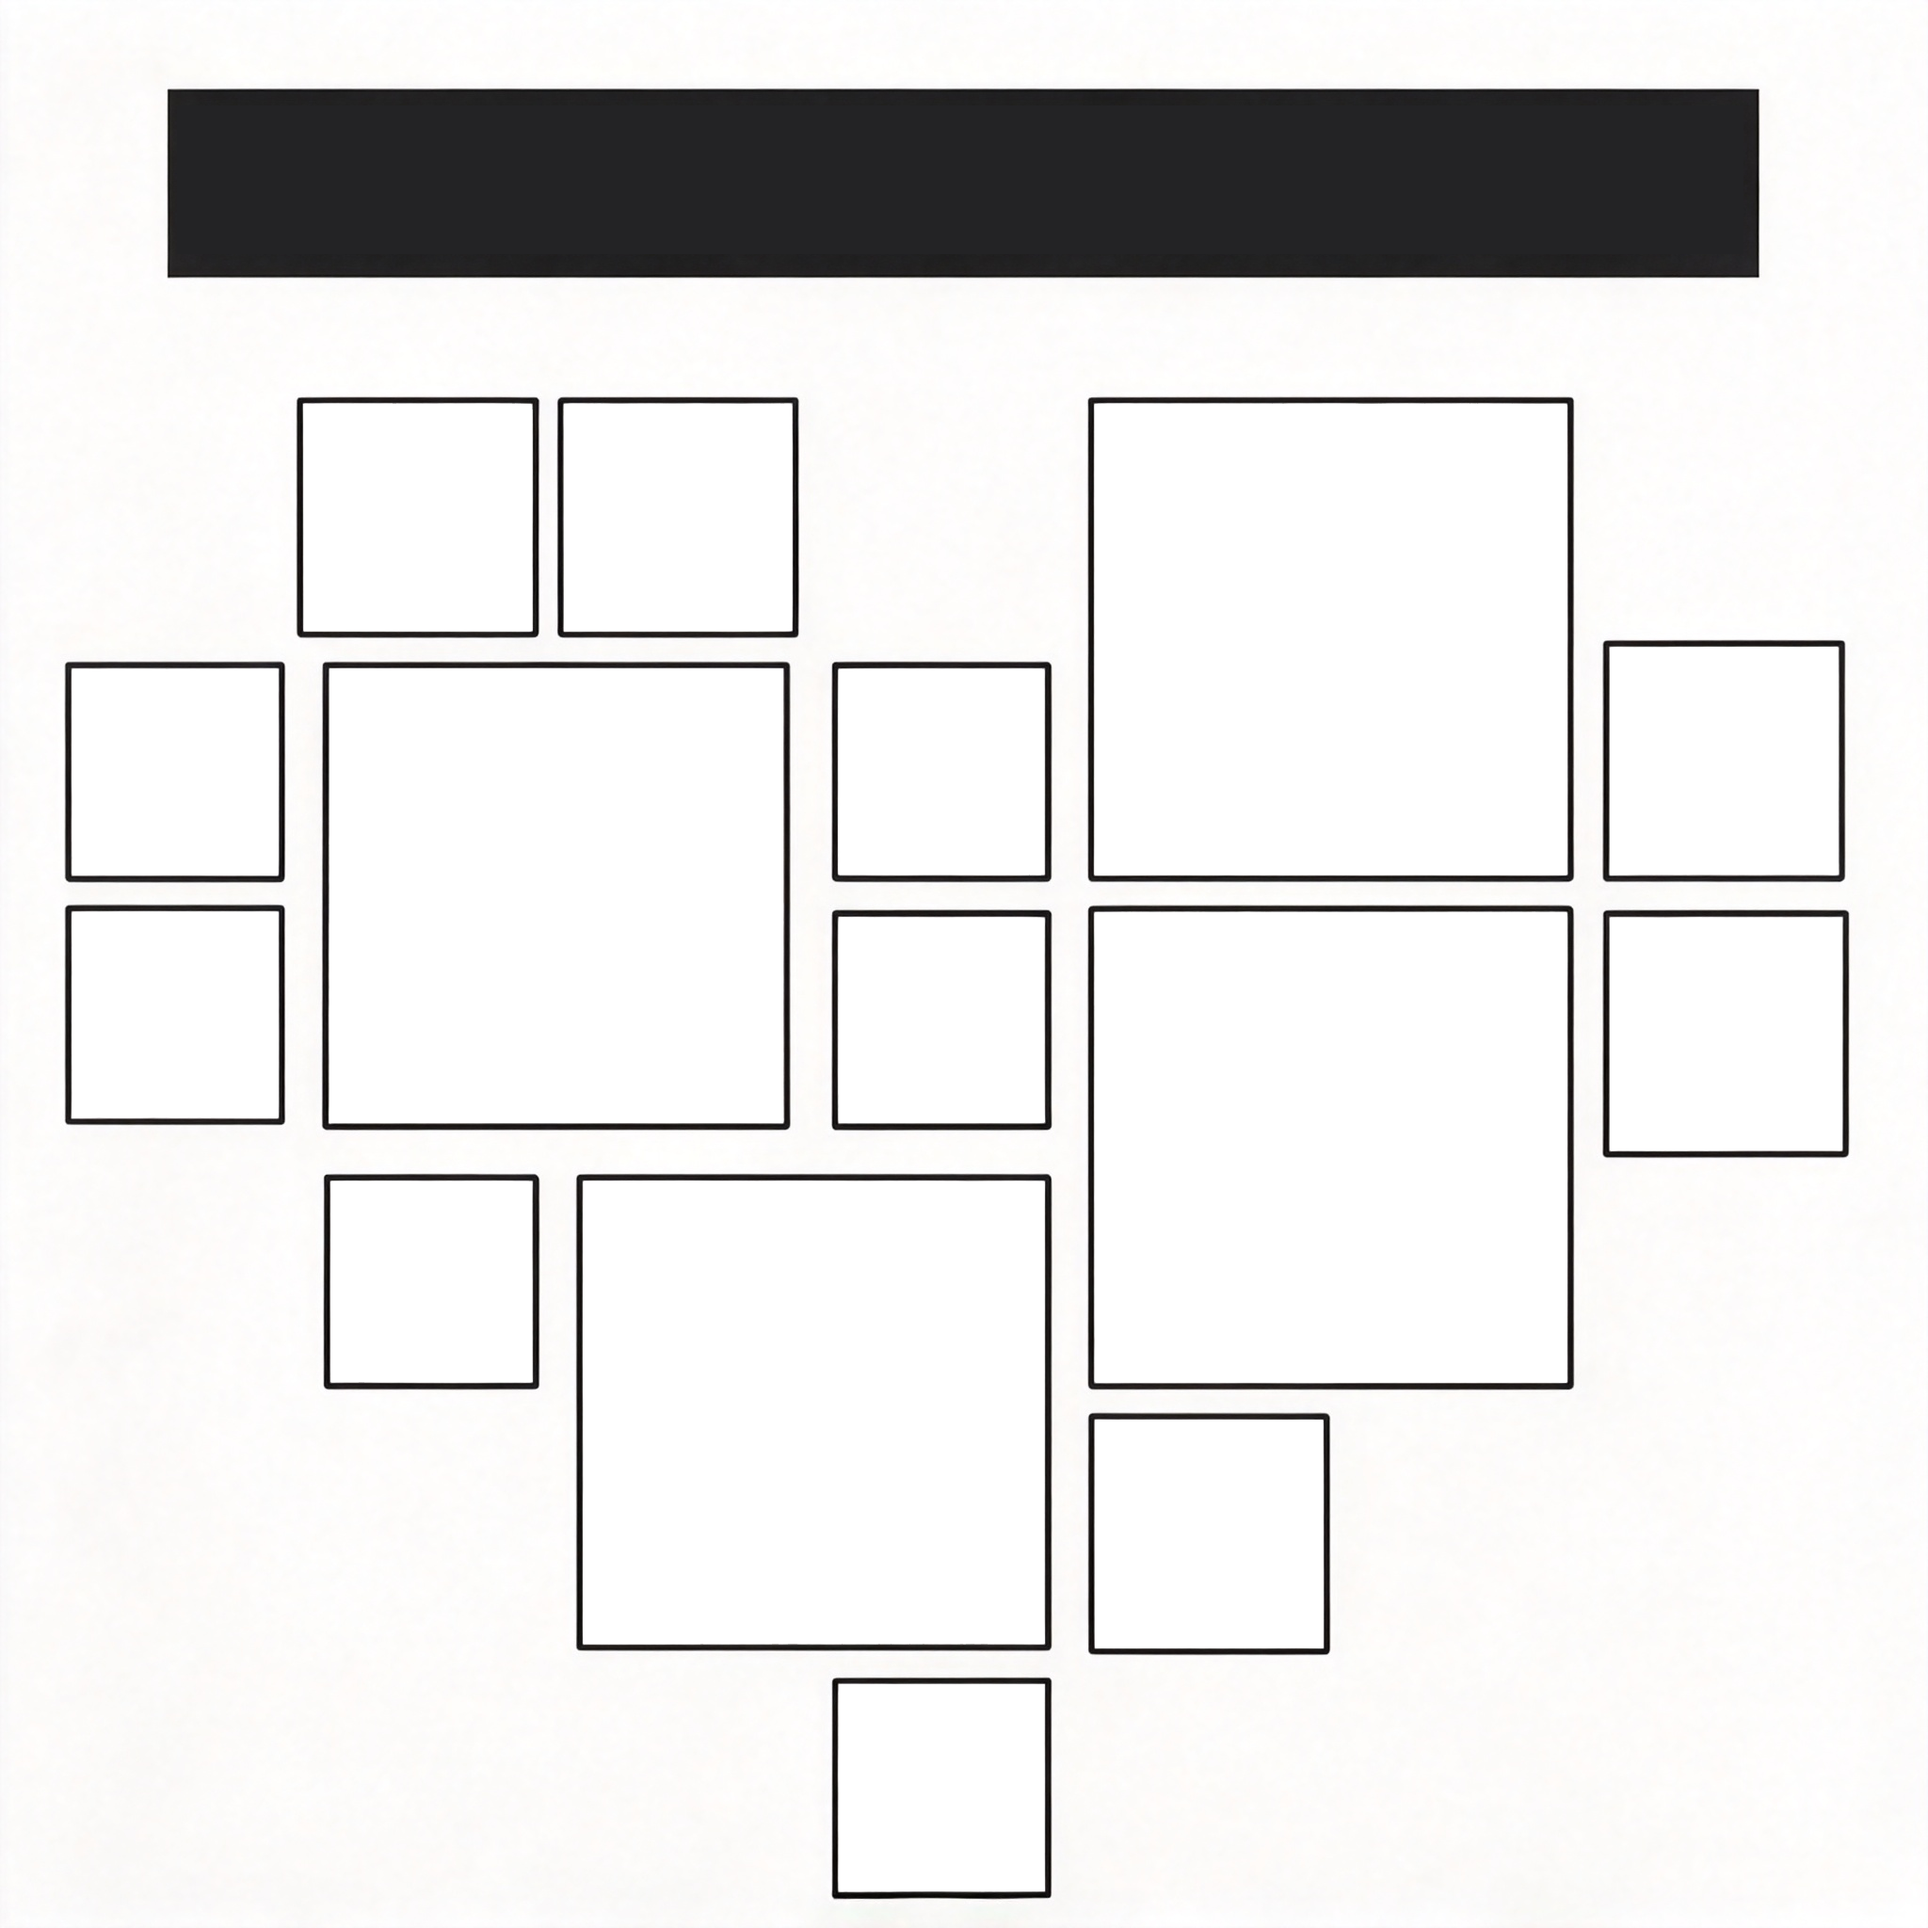
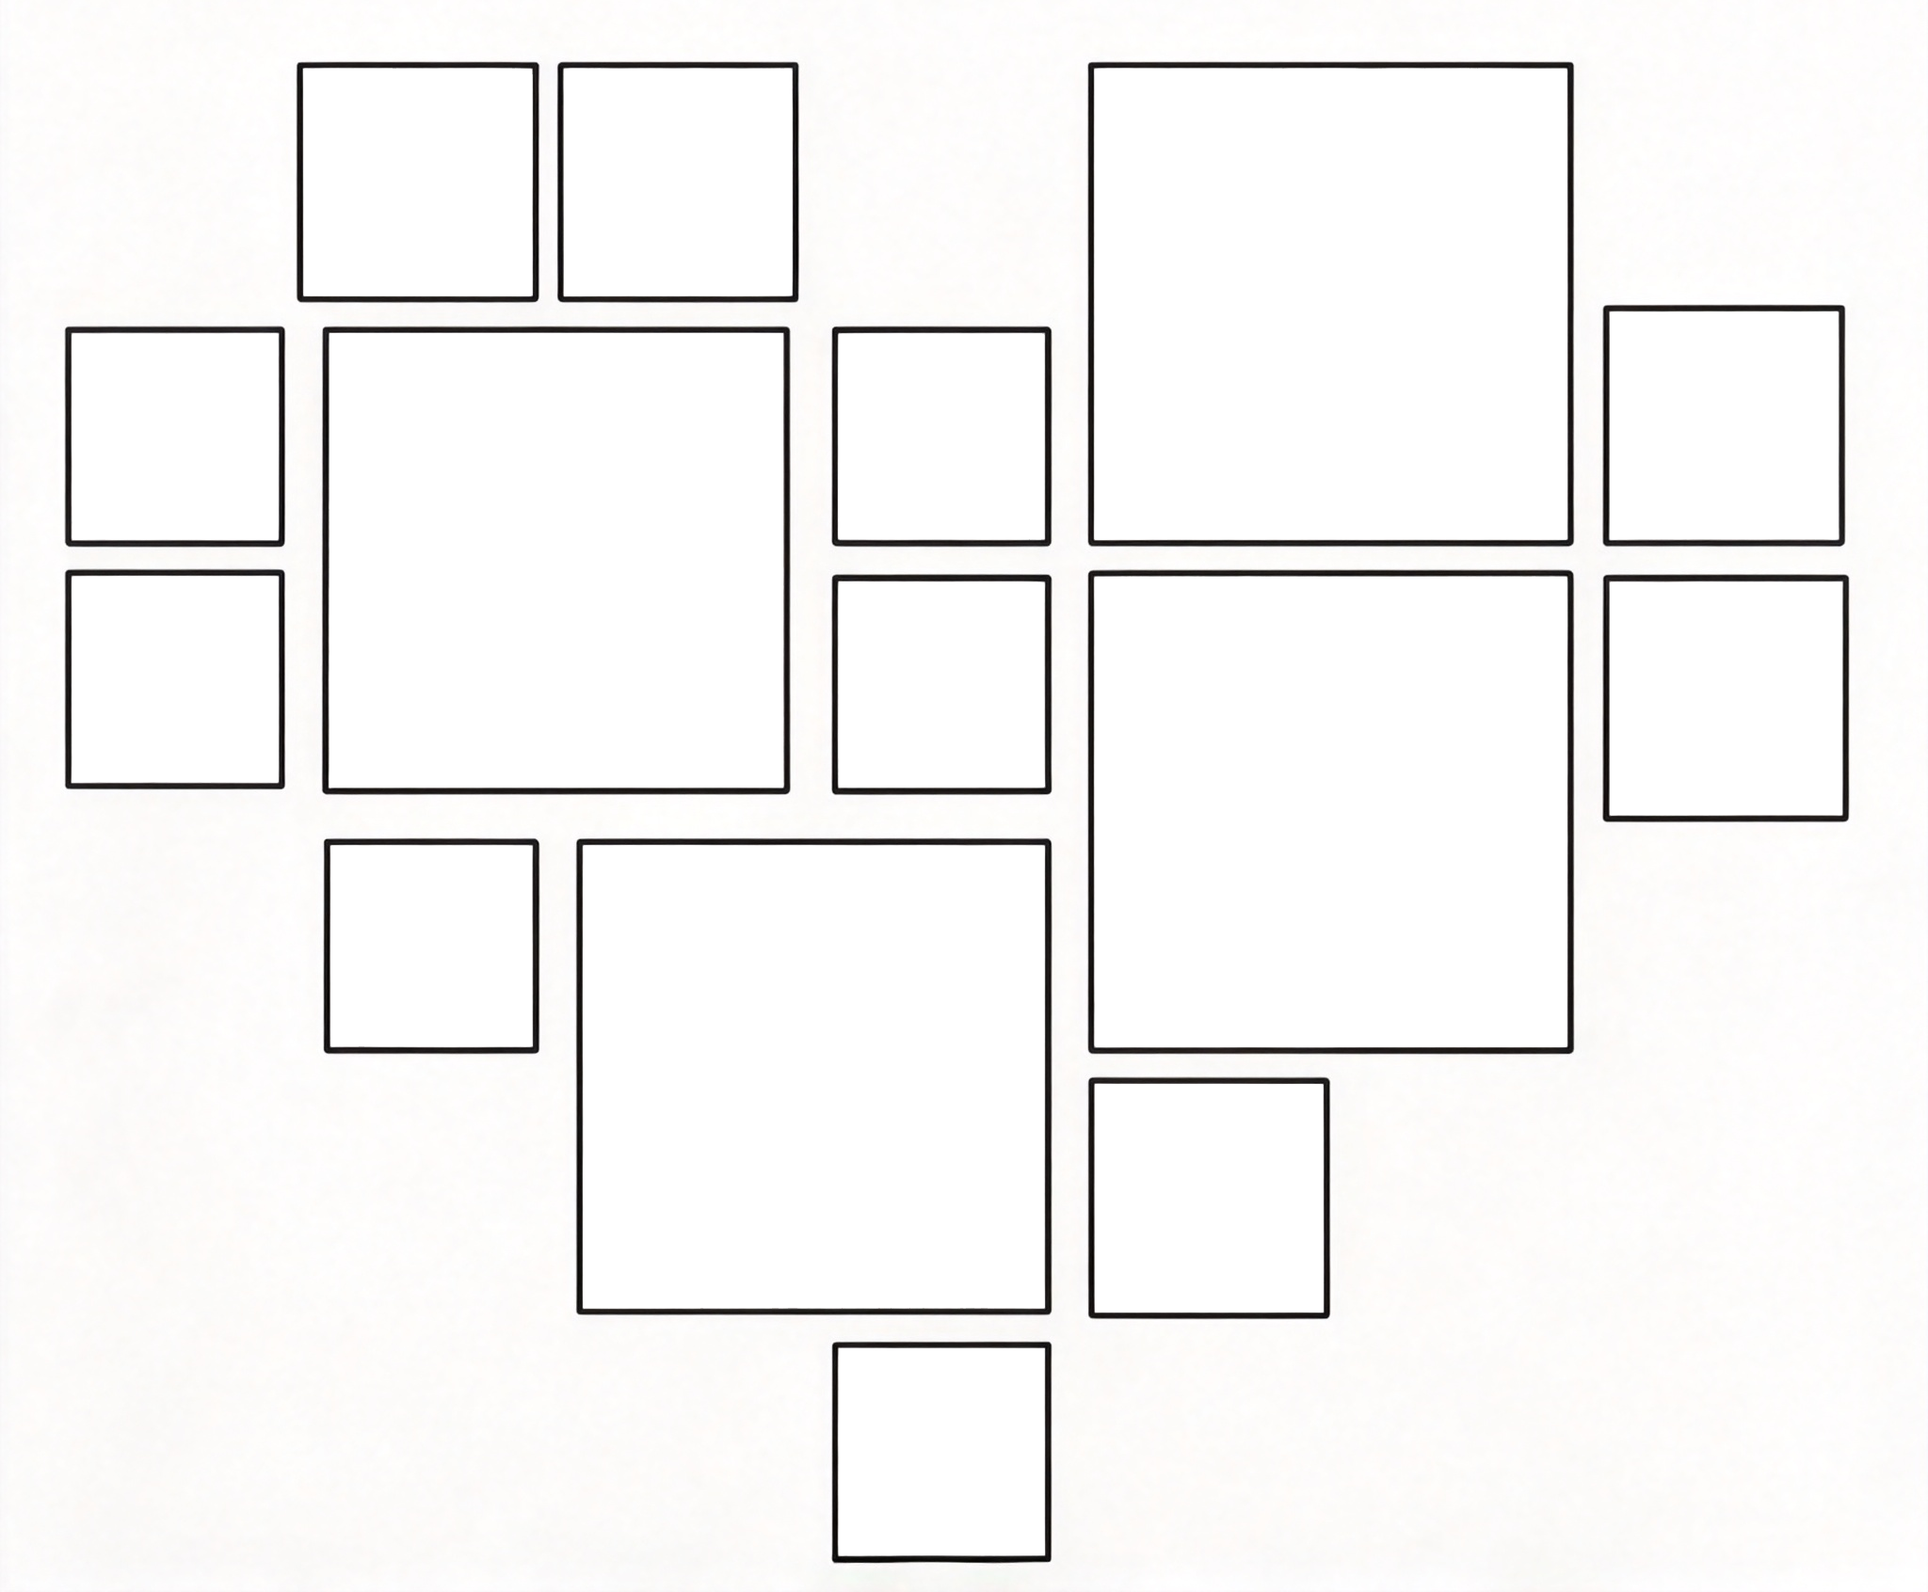
同步表情更新

diff --git a/meme_generator/memes_emoji/heart_shape/__init__.py b/meme_generator/memes_emoji/heart_shape/__init__.py
@@ -2,69 +2,52 @@ from datetime import datetime
 from pathlib import Path
 
 from pil_utils import BuildImage
-from pydantic import Field
 
-from meme_generator import (
-    MemeArgsModel,
-    MemeArgsType,
-    ParserArg,
-    ParserOption,
-    add_meme,
-)
-from meme_generator.exception import TextOverLength
+from meme_generator import MemeArgsModel, add_meme
+from meme_generator.utils import make_png_or_gif
 
 img_dir = Path(__file__).parent / "images"
 
-help_text = "昵称"
+AVATAR_SLOTS: list[tuple[int, int, int, int]] = [
+    (323, 73, 242, 241),      # 1
+    (599, 73, 242, 241),      # 2
+    (1163, 73, 501, 500),     # 3
+    (1710, 332, 242, 241),    # 4
+    (77, 355, 218, 218),      # 5
+    (350, 355, 482, 482),     # 6
+    (891, 355, 218, 218),     # 7
+    (77, 613, 218, 218),      # 8
+    (1163, 613, 501, 499),    # 9
+    (891, 619, 218, 217),     # 10
+    (1710, 619, 247, 247),    # 11
+    (352, 899, 213, 213),     # 12
+    (620, 899, 489, 491),     # 13
+    (1163, 1153, 242, 241),   # 14
+    (891, 1433, 218, 220),    # 15
+]
 
 
-class Model(MemeArgsModel):
-    name: str = Field("", description=help_text)
-
-
-args_type = MemeArgsType(
-    args_model=Model,
-    parser_options=[
-        ParserOption(
-            names=["-n", "--name"],
-            args=[ParserArg(name="name", value="str")],
-            help_text=help_text,
-        ),
-    ],
-)
-
-
-def heart_shape(images: list[BuildImage], texts: list[str], args: Model):
+def heart_shape(images: list[BuildImage], texts: list[str], args: MemeArgsModel):
     frame = BuildImage.open(img_dir / "0.png")
-    name = args.name or (
-        args.user_infos[0].name if args.user_infos else texts[0]
-    )
-    try:
-        frame.draw_text(
-            (180, 93, 1868, 295),
-            name,
-            fill=(255, 255, 255),
-            allow_wrap=True,
-            max_fontsize=300,
-            min_fontsize=15,
-            lines_align="center",
-            font_families=["FZKaTong-M19S"],
-        )
-    except ValueError:
-        raise TextOverLength(name)
-    return frame.save_png()
+
+    def make(imgs: list[BuildImage]) -> BuildImage:
+        result = frame.copy()
+        for i, (x, y, w, h) in enumerate(AVATAR_SLOTS):
+            img = imgs[i % len(imgs)].convert("RGBA").square().resize((w, h))
+            result.paste(img, (x, y), alpha=True)
+        return result
+
+    return make_png_or_gif(images, make)
 
 
 add_meme(
     "heart_shape",
     heart_shape,
-    min_images=0,
-    max_images=0,
-    min_texts=1,
-    max_texts=1,
-    default_texts=["Anyliew"],
+    min_images=1,
+    max_images=15,
+    min_texts=0,
+    max_texts=0,
     keywords=["爱心形状"],
-    args_type=args_type,
     date_created=datetime(2026, 10, 12),
-    date_modified=datetime(2026, 10, 14),
+    date_modified=datetime(2026, 10, 16),
 )
